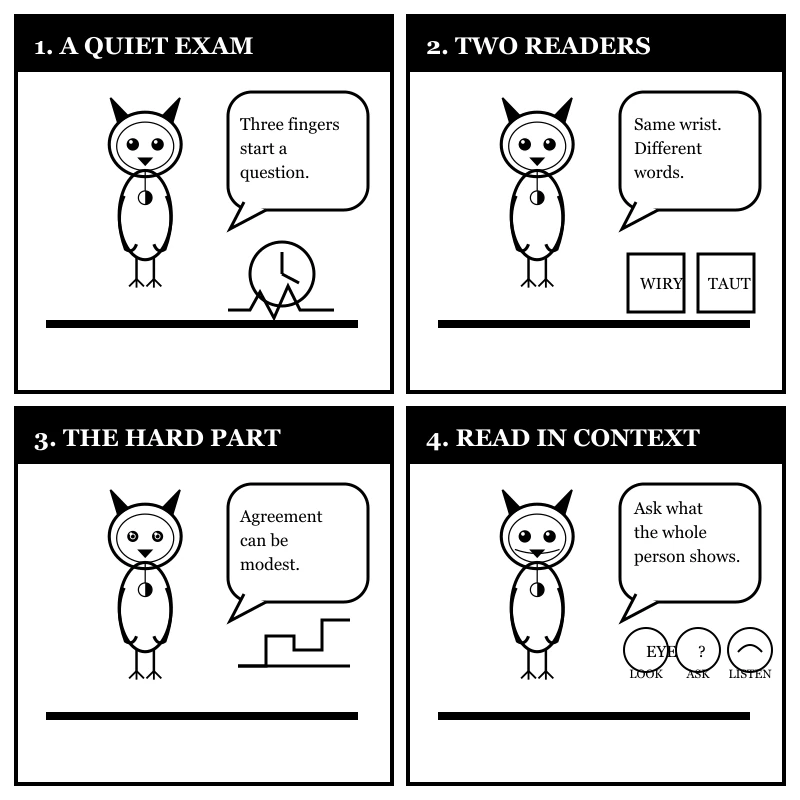
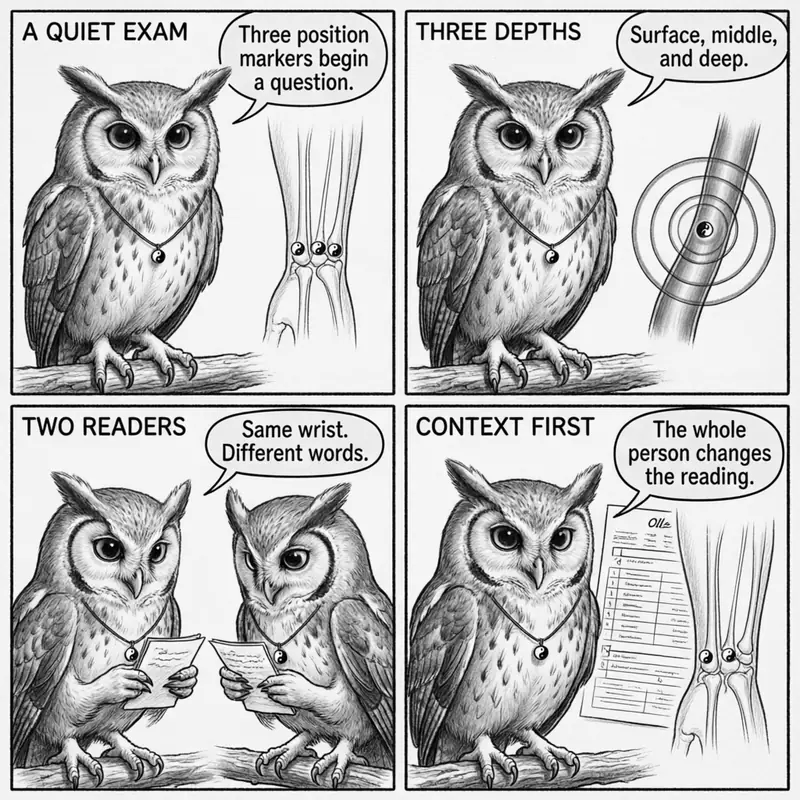
fix: restore comic consistency and homepage separation

diff --git a/posts/72-the-kidney-essence-bank.html b/posts/72-the-kidney-essence-bank.html
@@ -75,6 +75,18 @@
 
 <p>Ollie shifts on his perch and fluffs his chest feathers. “Owls have the same problem,” he says, one ear tuft angled toward the window. “A short night is one thing. A whole season of short nights is another.”</p>
 
+<div class="ollie-take-badge">
+  <img src="/images/brand/pendant-mini-40.png" alt="" width="22" height="22">
+  <span>Ollie's Take</span>
+</div>
+
+<figure class="featured-figure">
+<img class="comic-break" src="/images/comic-72-bw.webp" alt="Ollie the screech owl explains Kidney Essence through the long view, inherited and acquired nourishment, laboratory limits, and winter rest" width="800" height="800" loading="lazy">
+<figcaption>Kidney Essence is a traditional idea about long-term reserve, not a number on a lab report.</figcaption>
+</figure>
+
+<p><em>“A rough week is not the whole balance,” Ollie says. “It is one entry.”</em></p>
+
 <h2>1. What Jing and Kidney Essence mean in TCM</h2>
 
 <p>Jing is usually translated as Essence. It provides a foundational basis for growth, reproduction, and development. Qi is not its opposite. Qi supports movement, warmth, protection, transformation, and the holding of substances in place. In classical theory, Essence can transform into Qi, while Qi helps sustain and conserve Essence.</p>
@@ -92,18 +104,6 @@
 <p>A savings-account analogy is ours, not Zhang Zhongjing's. It traces what many people notice over decades: the body takes longer to bounce back, and hair, joints, hearing, and stamina begin to show the mileage.</p>
 
 <p>The metaphor captures how recovery can take time. Its limit matters too: TCM offers no numerical Jing balance, so a product cannot demonstrate that it has refilled yours. The bank remains a metaphor, not a bank statement.</p>
-
-<div class="ollie-take-badge">
-  <img src="/images/brand/pendant-mini-40.png" alt="" width="22" height="22">
-  <span>Ollie's Take</span>
-</div>
-
-<figure class="featured-figure">
-<img src="/images/comic-72-bw.webp" alt="Ollie the screech owl explains Kidney Essence through the long view, inherited and acquired nourishment, laboratory limits, and winter rest" width="800" height="800">
-<figcaption>Kidney Essence is a traditional idea about long-term reserve, not a number on a lab report.</figcaption>
-</figure>
-
-<p><em>“A rough week is not the whole balance,” Ollie says. “It is one entry.”</em></p>
 
 <h2>3. Growth, bones, marrow, ears, and the long arc of a life</h2>
 
@@ -133,6 +133,8 @@
 
 <p>Ollie tilts his head so far that one ear tuft nearly brushes his shoulder, his pendant swinging out from his chest. “That shared name had me confused for longer than I’d like to admit,” he says. “The maps answer different questions. A Kidney pattern cannot tell you how well your kidneys filter blood.”</p>
 
+<img class="comic-break" src="/images/comic-72-mid1-bw.webp" width="800" height="800" alt="Ollie separates the TCM Kidney map from laboratory kidney tests, bone and ear associations, and the need to assess persistent symptoms" loading="lazy">
+
 <h2>5. Why winter became the season of storage</h2>
 
 <p>Traditional Chinese culture did not draw a hard border between the body and the season. Suwen chapter 2, Si Qi Tiao Shen Da Lun, associates winter with storage and the protection of Yang. The advice follows the season's rhythm: as daylight shortens and temperatures fall, protect warmth and make time for rest.</p>
@@ -158,6 +160,8 @@
 <p>The bank is also a bad excuse for blame. Illness, disability, grief, and aging are not moral failures caused by careless withdrawals. A person can do all the sensible things and still become sick or exhausted. The metaphor helps explain why a culture placed value on rest and continuity. It should never become a scorecard for who managed their life correctly.</p>
 
 <p>New or severe symptoms do not belong in a metaphor. Sudden confusion requires emergency care. Sudden hearing loss requires urgent assessment, even if the ear merely feels blocked or the change comes with ringing. Seek prompt care for visible blood in the urine, markedly reduced urine output, sudden swelling, or severe flank pain, especially with fever. Arrange an appointment for persistent fatigue, unexplained weight loss, ongoing ringing, or fertility concerns. Normal kidney tests do not explain every cause of those symptoms.</p>
+
+<img class="comic-break" src="/images/comic-72-mid2-bw.webp" width="800" height="800" alt="Ollie explains recovery over time, checking supplement labels, urgent warning signs, and keeping a one-week symptom log" loading="lazy">
 
 <h2>Ollie Speaks</h2>
 <blockquote class="ollie-speaks">

diff --git a/posts/73-at-the-wrist-tcm-pulse-reading.html b/posts/73-at-the-wrist-tcm-pulse-reading.html
@@ -85,6 +85,13 @@
 
 <p>So the question isn't whether the ritual looks impressive. It's what a practitioner can responsibly do with what three fingers notice.</p>
 
+<figure class="featured-figure">
+<img class="comic-break" src="/images/comic-73-bw.webp" width="800" height="800" alt="Ollie the screech owl explores pulse reading as a question, examiner disagreement, modest reliability, and the need for whole-person context" loading="lazy">
+<figcaption>A pulse can begin an examination. It cannot finish the story by itself.</figcaption>
+</figure>
+
+<p><em>“Same wrist. Different words,” Ollie says. “That is why we keep asking.”</em></p>
+
 <h2>The Mechanics of Three Fingers on an Artery</h2>
 
 <p>Three fingers rest in a disciplined row. The index sits nearest the wrist crease, the middle finger beside the radial styloid, and the ring finger farther toward the forearm. Classical texts call these positions <em>cun</em>, <em>guan</em>, and <em>chi</em>. In English, they are the front, middle, and rear positions. The spacing follows the arm: wider on a tall adult, narrower on a child.</p>
@@ -99,13 +106,6 @@
 
 <p>Classical practice also asks three questions beneath every named quality. Does the pulse have Stomach Qi, a relaxed, moderate feel? Does it have Spirit, expressed through orderly rhythm and a supple, harmonious quality rather than rigidity? Does it have Root, a quality and strength maintained under deeper pressure, especially at the rear position? These qualities are weighed together, not named in isolation.</p>
 
-
-<figure class="featured-figure">
-<img class="comic-break" src="/images/comic-73-bw.webp" width="800" height="800" alt="Ollie the screech owl explores pulse reading as a question, examiner disagreement, modest reliability, and the need for whole-person context" loading="lazy">
-<figcaption>A pulse can begin an examination. It cannot finish the story by itself.</figcaption>
-</figure>
-
-<p><em>“Same wrist. Different words,” Ollie says. “That is why we keep asking.”</em></p>
 
 <h2>A Wrist in a Wider Tradition</h2>
 
@@ -122,6 +122,8 @@
 <p>The names describe a feeling, not a verdict. A wiry quality may make a practitioner curious about tension, pain, or stagnation. In TCM theory, a rough quality may accompany Blood deficiency, a pattern of insufficient nourishment, or Blood stasis, when movement is obstructed. Signs such as pallor and dizziness pull one way; fixed, stabbing pain pulls another. The pulse texture alone cannot choose between them.</p>
 
 <p>Ollie shuffles sideways along the shelf. “A bowstring tells me how it feels,” he says. “It doesn't tell me why.” He tucks his beak into his chest feathers.</p>
+
+<img class="comic-break" src="/images/comic-73-mid1-bw.webp" width="800" height="800" alt="Ollie illustrates floating, slippery, and wiry pulse descriptions as sensations that begin questions rather than verdicts" loading="lazy">
 
 <h2>What the Wrist Adds</h2>
 
@@ -154,6 +156,8 @@
 <p>These studies examine different tasks: some assess pulse descriptions, while others assess broader TCM patterns. Their agreement scores are not interchangeable. Low agreement alone cannot tell us whether terminology, technique, changing physiology, or interpretation caused the disagreement. Agreement is not validity: two examiners can agree and both be wrong.</p>
 
 <p>Taken together, the research shows variable agreement about pulse descriptions and broader TCM patterns. It does not show that a named pulse quality can independently identify a disease. Manual pulse examination can still add attention, continuity, and useful questions.</p>
+
+<img class="comic-break" src="/images/comic-73-mid2-bw.webp" width="800" height="800" alt="Ollie shows examiner disagreement, the limits of pulse reading, and emergency symptoms that need urgent medical care" loading="lazy">
 
 <h2>Where the Line Is</h2>
 

diff --git a/posts/74-minor-snow.html b/posts/74-minor-snow.html
@@ -108,6 +108,8 @@
 
 <p>The third says that closure creates winter. Fields receive less attention. Tools are put away. Householders seal drafts and move provisions under cover. Ollie tucks his chin against his chest and settles lower on the branch. "I'm all for closure," he mutters. "It means I can stop pretending to be busy."</p>
 
+<img class="comic-break" src="/images/comic-74-mid1-bw.webp" width="800" height="800" alt="Ollie explains the three five-day pentads of Minor Snow and the seasonal images of hidden rainbows, rising heaven Qi, and closure" loading="lazy">
+
 <h2>What went into the cellar</h2>
 
 <p>In parts of northern China, a late-November farmyard might show napa cabbages spread root-up in the last thin sun. The outer leaves lose some surface moisture before the vegetables go underground. Historical accounts describe households packing cabbage, sturdy radishes, and scallions into earthen trenches or stone-lined cellars before the ground froze hard. They covered the produce with straw or dry soil, adjusting the layer to insulate it without trapping enough moisture to cause rot.</p>
@@ -131,6 +133,8 @@
 <p>The seasonal logic is not hard to follow once the vocabulary is set aside. A household stores food because the growing season has ended. The classical medical model recommends conservation because winter is described as a time of greater demand on warmth and reserve. The analogy is cultural and historical. It is not evidence that cold weather causes kidney disease, nor does feeling cold establish a TCM pattern.</p>
 
 <p>That boundary matters. A traditional model may help someone notice the shape of a season. It cannot diagnose the cause of persistent fatigue, pain, breathlessness, or cold intolerance. Those symptoms can have many medical explanations and deserve qualified care. The useful part of the old image is narrower: winter invites attention to what supports you and what should not be spent carelessly.</p>
+
+<img class="comic-break" src="/images/comic-74-mid2-bw.webp" width="800" height="800" alt="Ollie turns the storage metaphor into sleep, warmth, practical household margin, and a clear boundary against medical diagnosis" loading="lazy">
 
 <h2>What a modern household might keep</h2>
 

diff --git a/index.html b/index.html
@@ -169,11 +169,6 @@
 
 
 <div class="post">
-  <h2><a href="posts/74-minor-snow.html"><img src="images/ollie-mini-80.png" width="80" height="80" class="mini-owl" alt="">Minor Snow: The Old Calendar's Quiet Turn Toward Winter</a></h2>
-  <div class="date">November 15, 2026 &middot; By Ollie &middot; 10 min read</div>
-  <div class="excerpt"><p>A thin layer of frost covers the metal handrail before sunrise. The grass has stiffened into pale gray bristles, and the morning air smells of chimney</p></div>
-</div>
-<div class="post">
   <h2><a href="posts/73-at-the-wrist-tcm-pulse-reading.html"><img src="images/ollie-mini-80.png" width="80" height="80" class="mini-owl" alt="">At the Wrist: What TCM Pulse Reading Can and Cannot Tell You</a></h2>
   <div class="date">November 11, 2026 &middot; By Ollie &middot; 11 min read</div>
   <div class="excerpt"><p>The room goes quiet. A practitioner lays three fingertips along the radial artery at your wrist, just behind the base of the thumb. A clock ticks. For</p></div>
@@ -192,6 +187,11 @@
   <h2><a href="posts/70-blood-is-not-just-red-liquid.html"><img src="images/ollie-mini-80.png" width="80" height="80" class="mini-owl" alt="">Blood Is Not Just Red Liquid</a></h2>
   <div class="date">November 3, 2026 &middot; By Ollie &middot; 11 min read</div>
   <div class="excerpt"><p>A project manager pushes through a launch week on four hours of sleep, grabbing lunch between meetings. By week three, her face looks sallow by 2 p.m.</p></div>
+</div>
+<div class="post">
+  <h2><a href="posts/69-cold-feet-more-than-poor-circulation.html"><img src="images/ollie-mini-80.png" width="80" height="80" class="mini-owl" alt="">Cold Feet Are More Than Poor Circulation</a></h2>
+  <div class="date">October 29, 2026 &middot; By Ollie &middot; 12 min read</div>
+  <div class="excerpt"><p>You've been at your desk two hours. Your sweater is warm, but your toes are cold enough to make you check the window. It isn't open. Under a duvet, yo</p></div>
 </div>
 
 <div class="view-all">

diff --git a/posts/66-what-classical-chinese-medicine-means-by-escorting-out-an-illness.html b/posts/66-what-classical-chinese-medicine-means-by-escorting-out-an-illness.html
@@ -65,7 +65,7 @@
 </header>
 
 <article>
-  <div class="meta">October 20, 2026 &middot; By Ollie &middot; 11 min read</div>
+  <div class="meta">October 20, 2026 &middot; By Ollie &middot; 12 min read</div>
   <div class="last-updated" style="color:var(--subtle);font-size:0.85rem;margin-top:0.3rem;">Last updated: October 20, 2026</div>
 
 <h1>What Classical Chinese Medicine Means by “Escorting Out” an Illness</h1>

diff --git a/posts/65-your-insomnia-has-a-type-a-tcm-field-guide.html b/posts/65-your-insomnia-has-a-type-a-tcm-field-guide.html
@@ -65,7 +65,7 @@
 </header>
 
 <article>
-  <div class="meta">October 16, 2026 &middot; By Ollie &middot; 11 min read</div>
+  <div class="meta">October 16, 2026 &middot; By Ollie &middot; 12 min read</div>
   <div class="last-updated" style="color:var(--subtle);font-size:0.85rem;margin-top:0.3rem;">Last updated: October 16, 2026</div>
 
 <h1>Your Insomnia Has a Type — A TCM Field Guide</h1>

diff --git a/posts/67-frosts-descent-the-last-15-days-of-autumn.html b/posts/67-frosts-descent-the-last-15-days-of-autumn.html
@@ -65,7 +65,7 @@
 </header>
 
 <article>
-  <div class="meta">October 22, 2026 &middot; By Ollie &middot; 11 min read</div>
+  <div class="meta">October 22, 2026 &middot; By Ollie &middot; 12 min read</div>
   <div class="last-updated" style="color:var(--subtle);font-size:0.85rem;margin-top:0.3rem;">Last updated: October 22, 2026</div>
 
 <h1>Frost's Descent: The Last 15 Days of Autumn</h1>

diff --git a/posts/68-appetite-is-your-body-health-barometer.html b/posts/68-appetite-is-your-body-health-barometer.html
@@ -65,7 +65,7 @@
 </header>
 
 <article>
-  <div class="meta">October 27, 2026 &middot; By Ollie &middot; 11 min read</div>
+  <div class="meta">October 27, 2026 &middot; By Ollie &middot; 12 min read</div>
   <div class="last-updated" style="color:var(--subtle);font-size:0.85rem;margin-top:0.3rem;">Last updated: October 27, 2026</div>
 
 <h1>Appetite Is Your Body's Health Barometer</h1>

diff --git a/posts/69-cold-feet-more-than-poor-circulation.html b/posts/69-cold-feet-more-than-poor-circulation.html
@@ -65,7 +65,7 @@
 </header>
 
 <article>
-  <div class="meta">October 29, 2026 &middot; By Ollie &middot; 11 min read</div>
+  <div class="meta">October 29, 2026 &middot; By Ollie &middot; 12 min read</div>
   <div class="last-updated" style="color:var(--subtle);font-size:0.85rem;margin-top:0.3rem;">Last updated: October 29, 2026</div>
 
 <h1>Cold Feet Are More Than Poor Circulation</h1>

diff --git a/regenerate-archive.py b/regenerate-archive.py
@@ -355,16 +355,15 @@ def update_homepage(cat_map, articles):
         hero_excerpt = r'(<div class="hero-title">[^<]*</div>)(\s*)'
         html = re.sub(hero_excerpt, rf'\g<1>\n    <div class="hero-excerpt">{art["excerpt"]}</div>\2', html, count=1)
 
-    # --- Recent posts: rebuild 5 most recent, including the hero article ---
-    # 现行发布门禁（G4）要求最新文章同时出现在 Hero 与 Recent。
-    # 2026-10-27 修复：旧 [1:6] 会在 CI 重建时把首页最新文章入口移除，
-    # 导致本地 G4 PASS，但部署后的首页只剩 Hero 一处。
+    # --- Recent posts: rebuild the next 5 after the hero ---
+    # The hero owns the latest article. Recent must start at #2 so the same
+    # article never appears twice on the homepage.
     recent_nums = [
         a["num"] for a in sorted(
             articles.values(),
             key=lambda a: (a["date_obj"], a["num"]),
             reverse=True,
-        )[:5]
+        )[1:6]
     ]
     recent_pattern = r'(<!-- ═══ RECENT POSTS ═══ -->\n<h2[^>]*>Recent Articles</h2>\n\n).*?(<div class="view-all">)'
     recent_html = '\n'.join([
